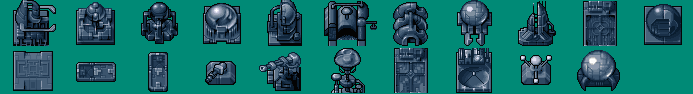
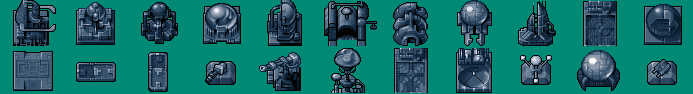
Added 2nd turret

Changed region(s): [[0.9091, 0.6383, 1.0, 0.9149]]

diff --git a/mods/hv/bits/audio/cc-by-30/README.md b/mods/hv/bits/audio/cc-by-30/README.md
@@ -12,3 +12,4 @@ Content of this folder indicates assets made by various authors, under the defau
 * [ccbymissilelaunch01.wav](http://soundbible.com/2075-RPG-Plus-Shrapnel.html) (first part) by Mike Koenig
 * [laser_Cannon-Mike_Koenig.wav](http://soundbible.com/1771-Laser-Cannon.html) by Mike Koenig, edited by Dzierzan.
 * [charging-Mike_Koenig.wav](http://soundbible.com/1771-Laser-Cannon.html) by Mike Koenig, edited by Dzierzan.
+* [blaster-newlocknew.wav](https://freesound.org/people/newlocknew/sounds/520056/) by newlocknew, edited by Dzierzan.
